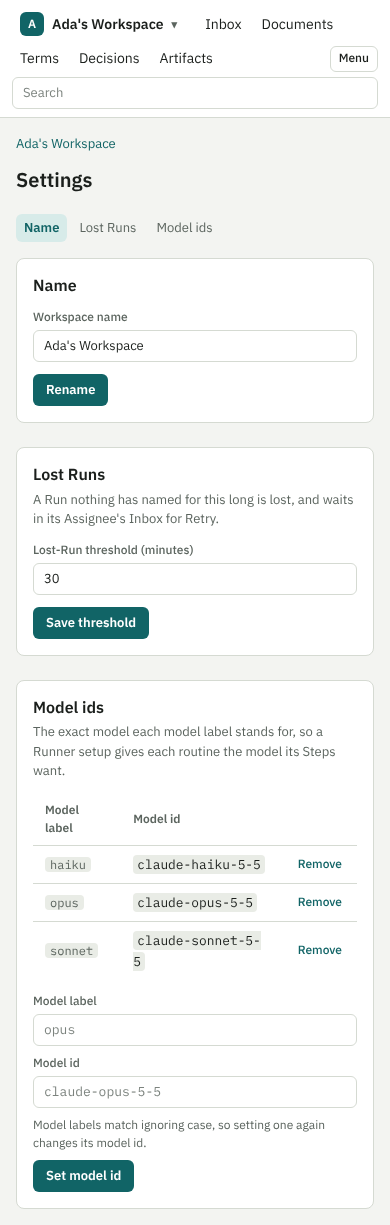
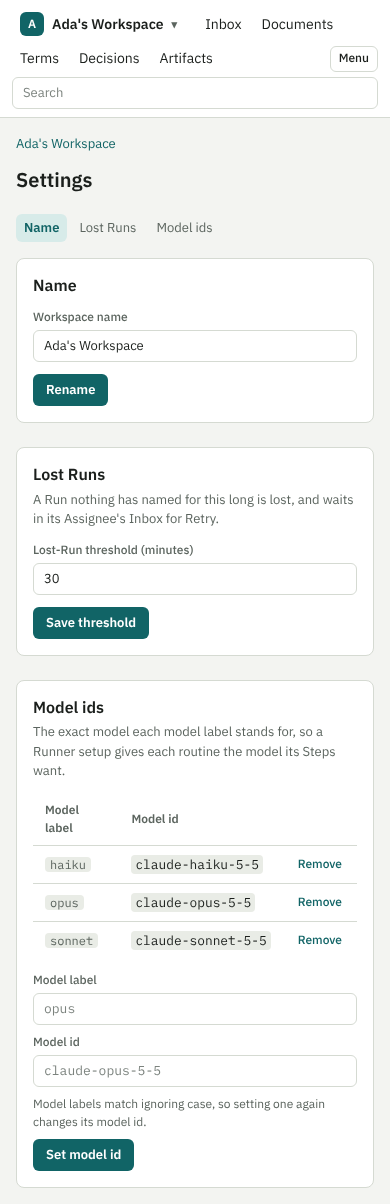
fix(web): a model id stays on one line in Settings, on a phone too

diff --git a/web/src/styles/screens.css b/web/src/styles/screens.css
@@ -1244,6 +1244,10 @@
 .model-ids-form {
   gap: var(--space-2);
 }
+/* A model id reads as one token, never broken at its hyphens. */
+.model-ids td code {
+  white-space: nowrap;
+}
 .form-columns {
   display: grid;
   grid-template-columns: repeat(auto-fit, minmax(220px, 1fr));
